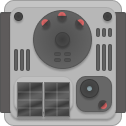
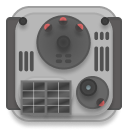
minerals + basic movement

diff --git a/client/src/components/Game.vue b/client/src/components/Game.vue
@@ -3,7 +3,9 @@ import { defineComponent, onMounted, ref } from 'vue'
 import Phaser from 'phaser'
 
 const SIZE = 2048
+const CELL = 64
 const CENTER = SIZE / 2
+const IMAGE_SCALE = 0.5
 
 const sceneConfig: Phaser.Types.Scenes.SettingsConfig = {
   active: false,
@@ -11,9 +13,45 @@ const sceneConfig: Phaser.Types.Scenes.SettingsConfig = {
   key: 'Game',
 }
 
+class FieldGridCell {
+  column: number
+  row: number
+  x: number
+  y: number
+  centerX: number
+  centerY: number
+
+  constructor(column: number, row: number, size: number) {
+    this.row = row
+    this.column = column
+    this.x = column * size
+    this.y = row * size
+    this.centerX = this.x - size / 2
+    this.centerY = this.y - size / 2
+  }
+}
+
+class FieldGrid {
+  cells: FieldGridCell[] = []
+  size: number
+
+  constructor(columns: number, rows: number, size: number) {
+    for (let row = 0; row < rows; row++) {
+      for (let column = 0; column < columns; column++) {
+        this.cells.push(new FieldGridCell(column, row, size))
+      }
+    }
+    this.size = size
+  }
+}
+
 class GameScene extends Phaser.Scene {
   private bot: Phaser.Physics.Arcade.Image | null = null
+  private botTarget: Phaser.Math.Vector2 | null = null
+  private botMoving: boolean = false
   private cursors: Phaser.Types.Input.Keyboard.CursorKeys | null = null
+  private fieldGrid: FieldGrid | null = null
+  private minerals: Phaser.Physics.Arcade.Image[] = []
 
   constructor() {
     super(sceneConfig)
@@ -22,47 +60,88 @@ class GameScene extends Phaser.Scene {
   preload() {
     this.load.image('map', 'assets/map.jpg')
     this.load.image('harvest-bot', 'assets/harvest-bot.png')
+    this.load.image('minerals', 'assets/minerals.png')
   }
 
   create() {
+    const fieldCount = SIZE / CELL
+    this.fieldGrid = new FieldGrid(fieldCount, fieldCount, CELL)
+
     this.cameras.main.setBounds(0, 0, SIZE, SIZE)
     this.physics.world.setBounds(0, 0, SIZE, SIZE)
     this.physics.add.staticImage(CENTER, CENTER, 'map')
 
     this.cursors = this.input.keyboard.createCursorKeys()
 
-    const gridCellSize = SIZE / 30
     this.add.grid(
       CENTER,
       CENTER,
       SIZE,
       SIZE,
-      gridCellSize,
-      gridCellSize,
+      CELL,
+      CELL,
       undefined,
       0,
-      0xffffff
+      0xffffff,
+      0.4
     )
 
-    this.bot = this.physics.add.image(CENTER, CENTER, 'harvest-bot')
-    this.bot.setCollideWorldBounds(true)
+    this.spawnMinerals()
+
+    this.bot = this.physics.add
+      .image(CENTER - CELL / 2, CENTER - CELL / 2, 'harvest-bot')
+      .setScale(IMAGE_SCALE)
+      .setCollideWorldBounds(true)
     this.cameras.main.startFollow(this.bot)
-    // Create minerals
+
+    this.botTarget = new Phaser.Math.Vector2()
+    this.botTarget.x = this.bot.x
+    this.botTarget.y = this.bot.y
+  }
+
+  spawnMinerals() {
+    this.fieldGrid?.cells.forEach((cell) => {
+      if (Math.random() < 0.05) {
+        const mineral = this.physics.add
+          .image(cell.centerX, cell.centerY, 'minerals')
+          .setScale(IMAGE_SCALE)
+        this.minerals.push(mineral)
+      }
+    })
   }
 
   update() {
-    this.bot?.setVelocity(0)
-
-    if (this.cursors?.up.isDown) {
-      this.bot?.setVelocityY(-200)
-    } else if (this.cursors?.down.isDown) {
-      this.bot?.setVelocityY(200)
+    if (this.bot == null || this.botTarget == null) {
+      return
     }
 
-    if (this.cursors?.right.isDown) {
-      this.bot?.setVelocityX(200)
+    const botMoving =
+      this.bot.body.velocity.y > 0 || this.bot.body.velocity.x > 0
+    if (botMoving) {
+      const distance = Phaser.Math.Distance.Between(
+        this.bot.x,
+        this.bot.y,
+        this.botTarget.x,
+        this.botTarget.y
+      )
+      if (distance < 4) {
+        this.bot.body.reset(this.botTarget.x, this.botTarget.y)
+      }
+      return
+    }
+
+    if (this.cursors?.up.isDown) {
+      this.botTarget.y -= CELL
+      this.physics.moveToObject(this.bot, this.botTarget, CELL)
+    } else if (this.cursors?.down.isDown) {
+      this.botTarget.y += CELL
+      this.physics.moveToObject(this.bot, this.botTarget, CELL)
+    } else if (this.cursors?.right.isDown) {
+      this.botTarget.x += CELL
+      this.physics.moveToObject(this.bot, this.botTarget, CELL)
     } else if (this.cursors?.left.isDown) {
-      this.bot?.setVelocityX(-200)
+      this.botTarget.x -= CELL
+      this.physics.moveToObject(this.bot, this.botTarget, CELL)
     }
   }
 }
